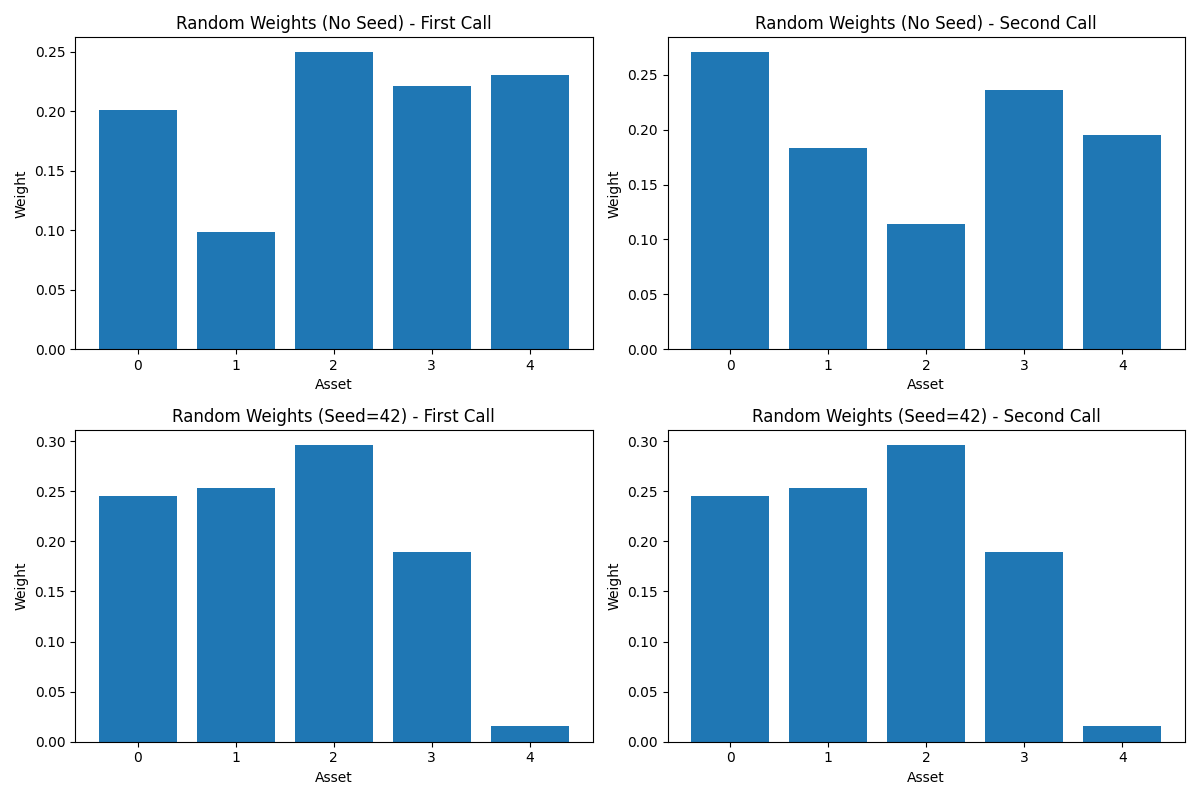
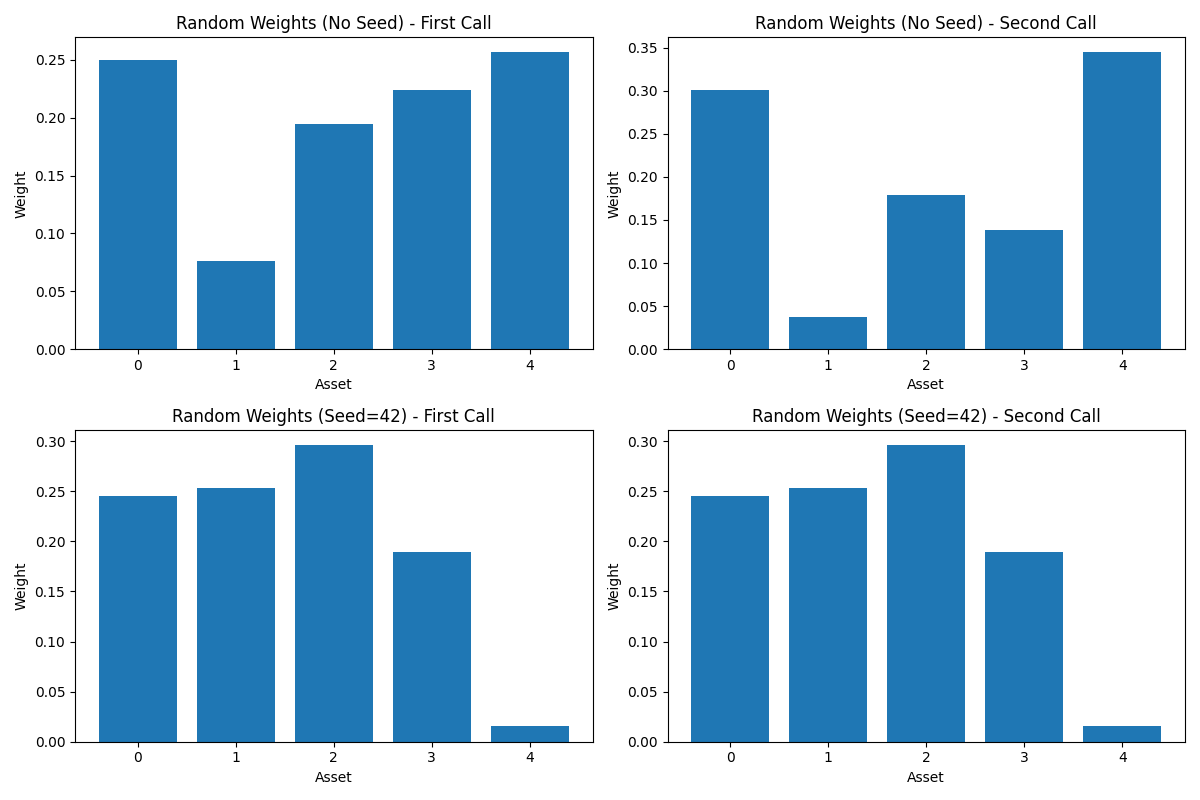
removed plots

diff --git a/examples/random_weight_example.py b/examples/random_weight_example.py
@@ -3,16 +3,14 @@ Example of using a custom Rust strategy for random weight allocation.
 """
 
 import numpy as np
-import matplotlib.pyplot as plt
 import sys
-import os
 from pathlib import Path
 
 # Add the project root to the path to import the packages
 sys.path.insert(0, str(Path(__file__).parent.parent))
 
 # Import the Python frontend package
-from python_frontend.allocation_o2 import create_allocator_class
+from allocation_o2 import create_allocator_class
 
 # Try to import the Rust module
 try:
@@ -74,37 +72,6 @@ def main():
     print(f"No seed, second call: {np.sum(weights2):.6f}")
     print(f"Seed=42, first call:  {np.sum(weights3):.6f}")
     print(f"Seed=42, second call: {np.sum(weights4):.6f}")
-    
-    # Plot the weights
-    plt.figure(figsize=(12, 8))
-    
-    plt.subplot(2, 2, 1)
-    plt.bar(range(n_assets), weights1)
-    plt.title("Random Weights (No Seed) - First Call")
-    plt.xlabel("Asset")
-    plt.ylabel("Weight")
-    
-    plt.subplot(2, 2, 2)
-    plt.bar(range(n_assets), weights2)
-    plt.title("Random Weights (No Seed) - Second Call")
-    plt.xlabel("Asset")
-    plt.ylabel("Weight")
-    
-    plt.subplot(2, 2, 3)
-    plt.bar(range(n_assets), weights3)
-    plt.title("Random Weights (Seed=42) - First Call")
-    plt.xlabel("Asset")
-    plt.ylabel("Weight")
-    
-    plt.subplot(2, 2, 4)
-    plt.bar(range(n_assets), weights4)
-    plt.title("Random Weights (Seed=42) - Second Call")
-    plt.xlabel("Asset")
-    plt.ylabel("Weight")
-    
-    plt.tight_layout()
-    plt.savefig("random_weights.png")
-    plt.show()
 
 if __name__ == "__main__":
     main() 
